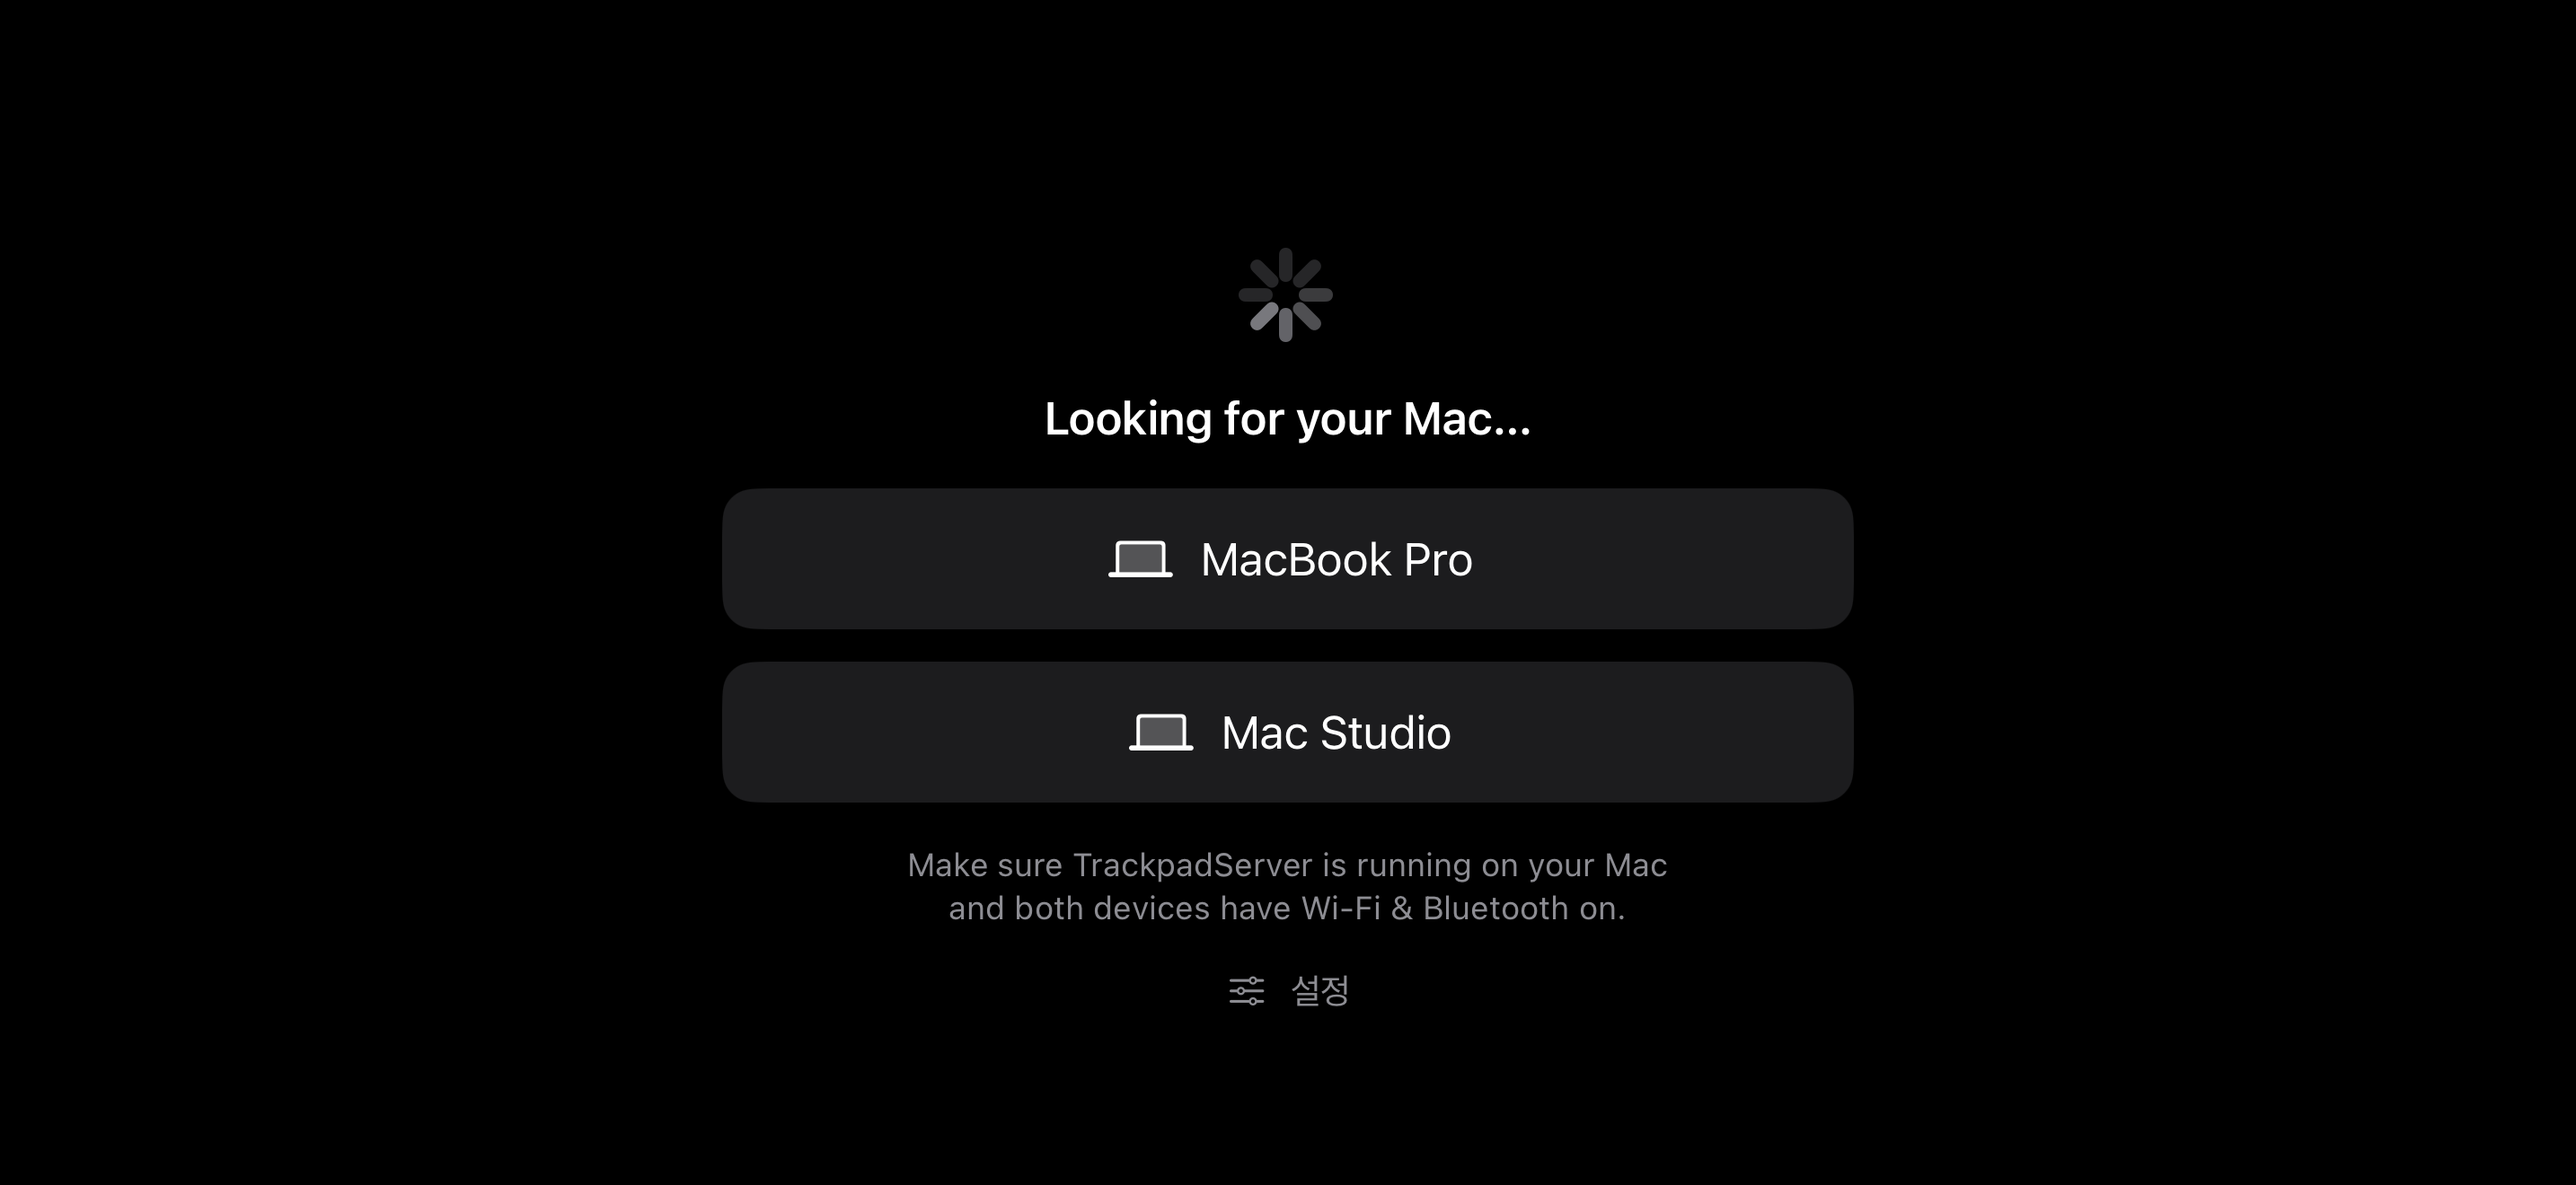
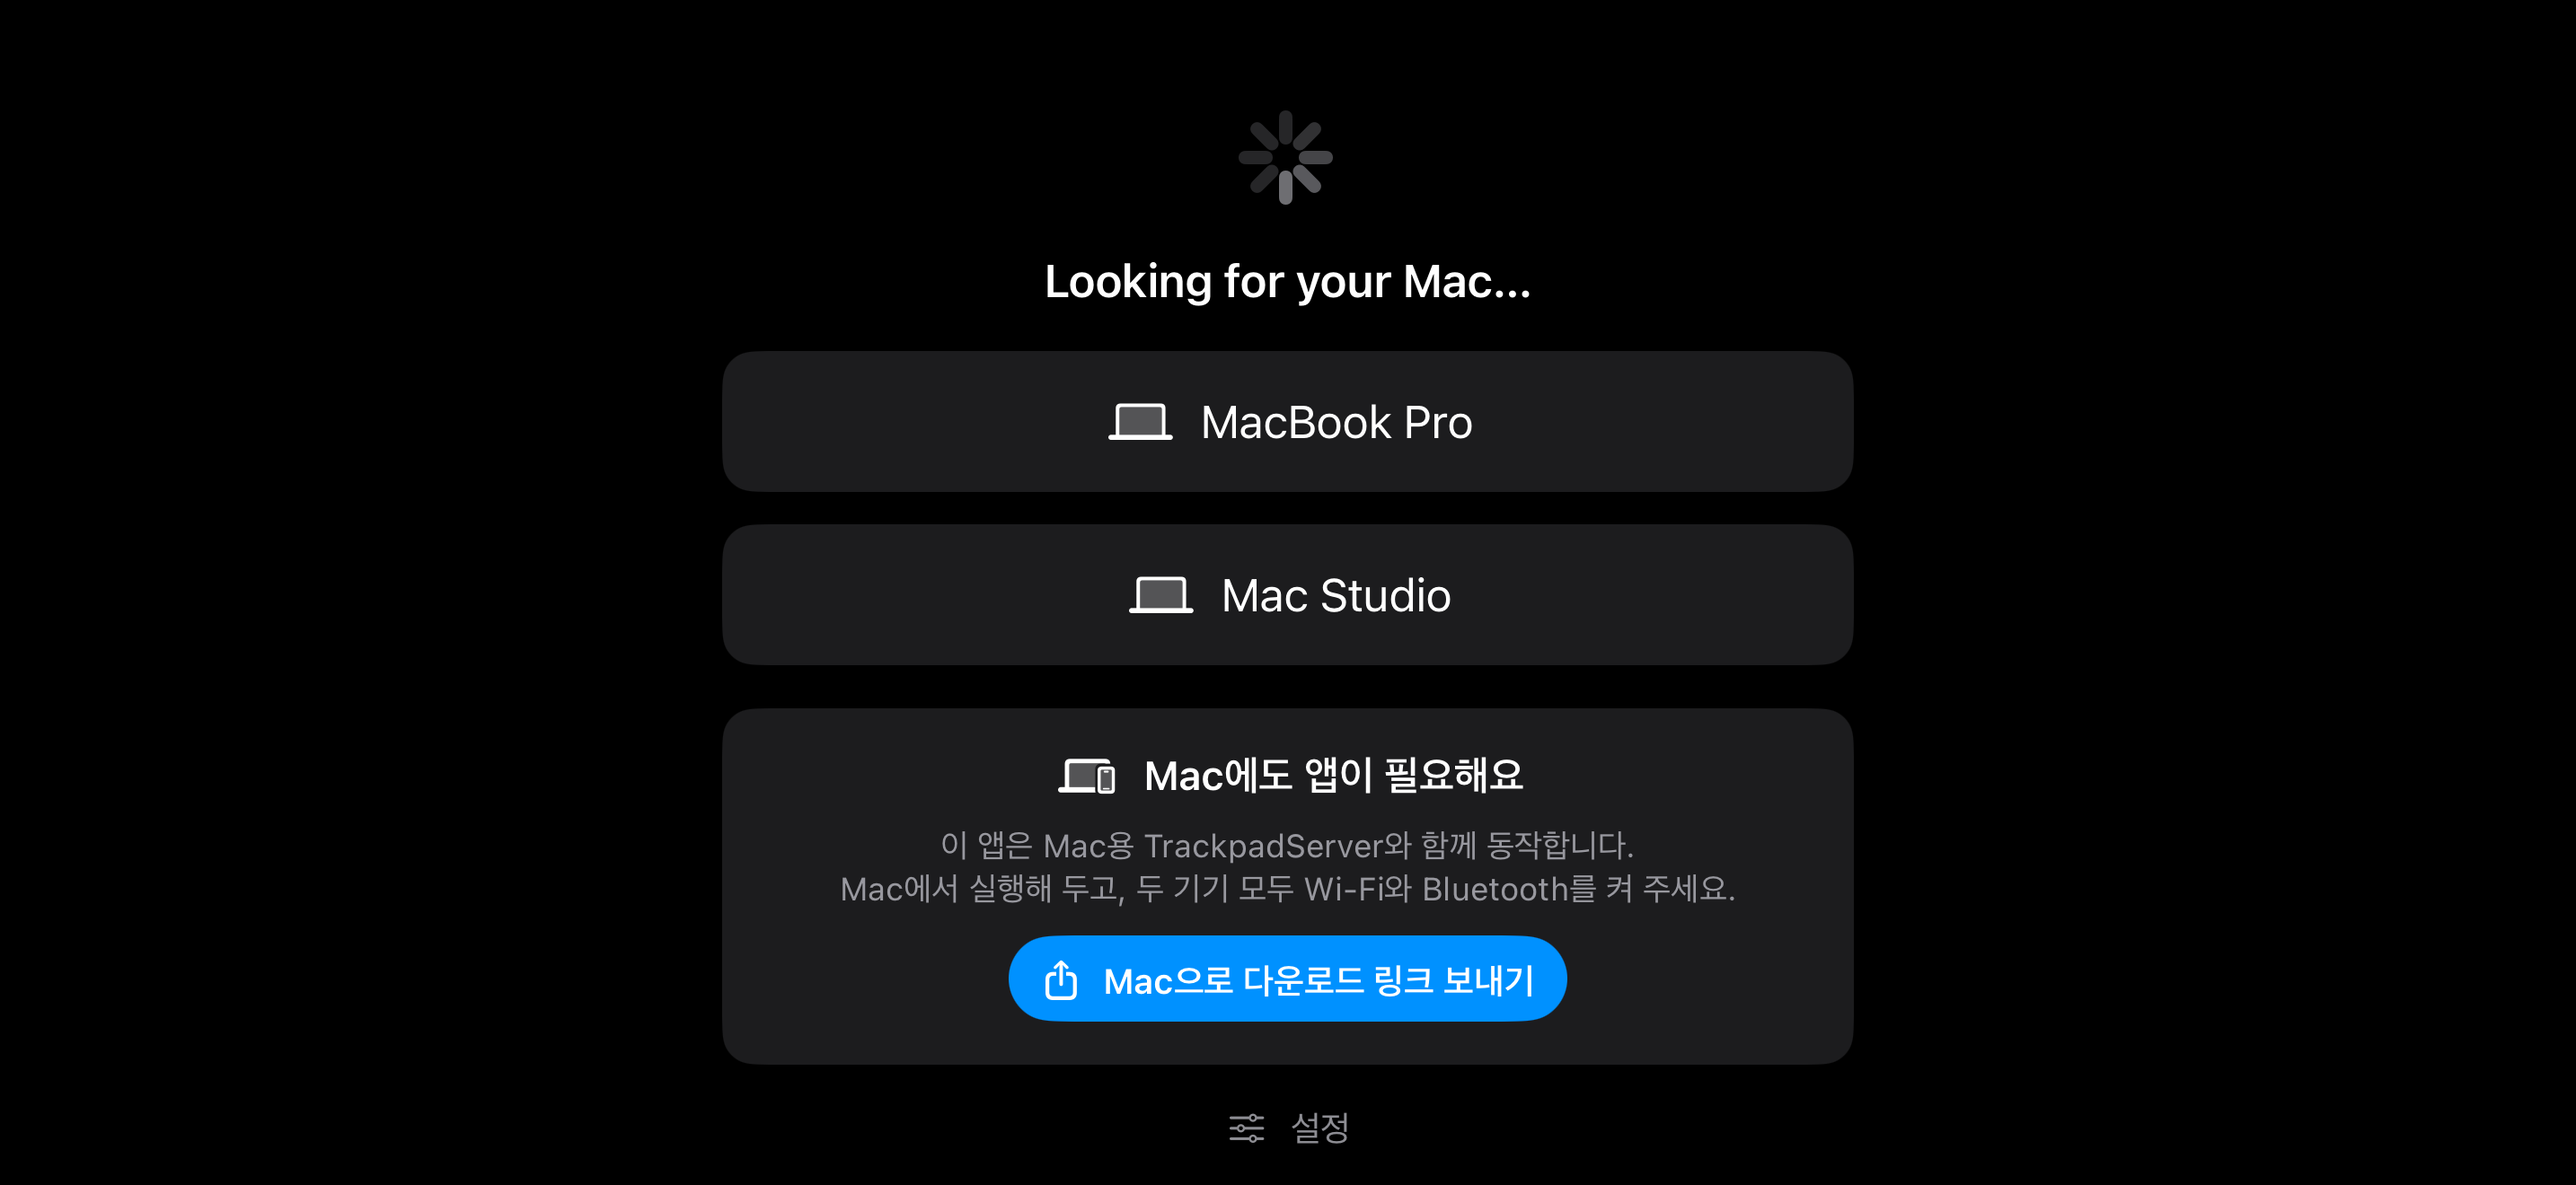
Tell each app's users they need the other half
Neither app does anything alone, and nothing said so. The iPhone app's
search screen now explains that the Mac needs TrackpadServer and shares
the download link (AirDrop opens it on the Mac); Settings has the same.
The Mac menu gains "Get the iPhone App…", a QR code window that also
opens at launch until a phone has ever connected.

Both point at one download page rather than a store, so links can
change without shipping either app. project.yml now matches the
iPhone-only, com.leeo bundle id settings so regenerating keeps them.

Claude-Session: https://claude.ai/code/session_01DQ1rdnPxXoZXEVdx8HZgwC

Changed region(s): [[0.2793, 0.2174, 0.7448, 0.9008], [0.4655, 0.0932, 0.5275, 0.1864], [0.4655, 0.9318, 0.5275, 0.9629]]

diff --git a/macOS/CompanionWindow.swift b/macOS/CompanionWindow.swift
@@ -1,0 +1,96 @@
+//
+//  CompanionWindow.swift
+//  TrackpadServer (macOS)
+//
+//  The server does nothing without the iPhone app, and as a menu bar app it
+//  has no window in which to say so. This is that window: a QR code the
+//  iPhone's camera opens straight into the download page.
+//
+
+import AppKit
+import CoreImage.CIFilterBuiltins
+import SwiftUI
+
+@MainActor
+enum CompanionWindow {
+    private static var window: NSWindow?
+
+    static func show() {
+        if window == nil {
+            let hosting = NSHostingView(rootView: CompanionView())
+            let newWindow = NSWindow(contentRect: NSRect(origin: .zero, size: hosting.fittingSize),
+                                     styleMask: [.titled, .closable],
+                                     backing: .buffered,
+                                     defer: false)
+            newWindow.title = "Get the iPhone App"
+            newWindow.contentView = hosting
+            newWindow.isReleasedWhenClosed = false
+            newWindow.center()
+            window = newWindow
+        }
+        // A menu bar app is never frontmost by itself; without this the window
+        // opens behind whatever the user is doing and looks like nothing happened.
+        NSApp.activate()
+        window?.makeKeyAndOrderFront(nil)
+    }
+}
+
+struct CompanionView: View {
+    private let link = CompanionLinks.downloadPage
+
+    var body: some View {
+        VStack(spacing: 18) {
+            Image(systemName: "laptopcomputer.and.iphone")
+                .font(.system(size: 34))
+                .foregroundStyle(.tint)
+
+            VStack(spacing: 6) {
+                Text("TrackpadRemote is two apps")
+                    .font(.title2.bold())
+                Text("This Mac app moves the cursor. The trackpad itself is the "
+                     + "TrackpadRemote app on your iPhone — install it, then keep "
+                     + "both devices on Wi-Fi with Bluetooth on.")
+                    .multilineTextAlignment(.center)
+                    .foregroundStyle(.secondary)
+                    .fixedSize(horizontal: false, vertical: true)
+            }
+
+            if let qrCode = Self.qrCode(for: link) {
+                Image(nsImage: qrCode)
+                    .interpolation(.none)   // modules must stay hard-edged to scan
+                    .resizable()
+                    .frame(width: 176, height: 176)
+                    .padding(12)
+                    .background(.white, in: RoundedRectangle(cornerRadius: 12))
+            }
+
+            Text("Scan with your iPhone's camera")
+                .font(.callout)
+                .foregroundStyle(.secondary)
+
+            HStack {
+                Button("Copy Link") {
+                    NSPasteboard.general.clearContents()
+                    NSPasteboard.general.setString(link.absoluteString, forType: .string)
+                }
+                Button("Open in Browser") {
+                    NSWorkspace.shared.open(link)
+                }
+            }
+        }
+        .padding(28)
+        .frame(width: 380)
+    }
+
+    /// One pixel per module; the view scales it up without smoothing.
+    private static func qrCode(for url: URL) -> NSImage? {
+        let filter = CIFilter.qrCodeGenerator()
+        filter.message = Data(url.absoluteString.utf8)
+        filter.correctionLevel = "M"
+        guard let output = filter.outputImage,
+              let cgImage = CIContext().createCGImage(output, from: output.extent) else {
+            return nil
+        }
+        return NSImage(cgImage: cgImage, size: output.extent.size)
+    }
+}

diff --git a/iOS/ContentView.swift b/iOS/ContentView.swift
@@ -129,10 +129,9 @@ struct ContentView: View {
                         .padding(.horizontal, 32)
                     }
 
-                    Text("Make sure TrackpadServer is running on your Mac\nand both devices have Wi-Fi & Bluetooth on.")
-                        .font(.caption)
-                        .foregroundStyle(.secondary)
-                        .multilineTextAlignment(.center)
+                    companionCard
+                        .frame(maxWidth: 420)
+                        .padding(.horizontal, 32)
 
                     // Reachable before a Mac is found: the pad's feel is worth
                     // setting up while waiting, not only once connected.
@@ -148,6 +147,35 @@ struct ContentView: View {
                 .padding(.vertical, 24)
             }
         }
+    }
+
+    /// A first-time user watching this spinner has no way to know the other half
+    /// of the app lives on the Mac. Say so, and hand them a way to get the link
+    /// onto that Mac — AirDrop from the share sheet opens it in the Mac's browser.
+    private var companionCard: some View {
+        VStack(spacing: 10) {
+            Label("Mac에도 앱이 필요해요", systemImage: "laptopcomputer.and.iphone")
+                .font(.subheadline.weight(.semibold))
+
+            Text("이 앱은 Mac용 TrackpadServer와 함께 동작합니다.\n"
+                 + "Mac에서 실행해 두고, 두 기기 모두 Wi-Fi와 Bluetooth를 켜 주세요.")
+                .font(.caption)
+                .foregroundStyle(.secondary)
+                .multilineTextAlignment(.center)
+
+            // No `message:` — AirDrop turns attached text into a note on the Mac
+            // instead of opening the link.
+            ShareLink(item: CompanionLinks.downloadPage,
+                      subject: Text("TrackpadServer for Mac")) {
+                Label("Mac으로 다운로드 링크 보내기", systemImage: "square.and.arrow.up")
+                    .font(.footnote.weight(.semibold))
+            }
+            .buttonStyle(.borderedProminent)
+        }
+        .padding()
+        .frame(maxWidth: .infinity)
+        .background(Color(.secondarySystemBackground))
+        .clipShape(RoundedRectangle(cornerRadius: 12))
     }
 
     private func statusView(icon: String, title: String, spinning: Bool) -> some View {

diff --git a/iOS/SettingsView.swift b/iOS/SettingsView.swift
@@ -68,10 +68,22 @@ struct SettingsView: View {
                            high: "짧게")
                     .disabled(!settings.swipeEnabled)
                 } header: {
-                    Text("세 손가락 스와이프")
+                    Text("세·네 손가락 스와이프")
                 } footer: {
                     Text("위: Mission Control · 아래: App Exposé · 좌우: 스페이스 이동. "
                          + "Mac에서 해당 단축키(⌃↑ ⌃↓ ⌃← ⌃→)를 바꾸거나 껐다면 동작하지 않습니다.")
+                }
+
+                Section {
+                    ShareLink(item: CompanionLinks.downloadPage,
+                              subject: Text("TrackpadServer for Mac")) {
+                        Label("Mac 앱 다운로드 링크 보내기", systemImage: "laptopcomputer.and.arrow.down")
+                    }
+                } header: {
+                    Text("Mac 앱")
+                } footer: {
+                    Text("Mac마다 TrackpadServer가 설치되어 있어야 연결됩니다. "
+                         + "AirDrop으로 보내면 Mac의 브라우저에서 바로 열립니다.")
                 }
 
                 Section {

diff --git a/macOS/TrackpadServerApp.swift b/macOS/TrackpadServerApp.swift
@@ -18,6 +18,7 @@ import SwiftUI
 
 @main
 struct TrackpadServerApp: App {
+    @NSApplicationDelegateAdaptor(AppDelegate.self) private var appDelegate
     @StateObject private var server = ServerManager()
 
     /// The icon has to distinguish "no phone yet" from "phone connected but I am
@@ -53,6 +54,7 @@ struct TrackpadServerApp: App {
                 Button("Disconnect") { server.disconnect() }
             case .waiting:
                 Text("Waiting for iPhone…")
+                Button("Get the iPhone App…") { CompanionWindow.show() }
             }
 
             Divider()
@@ -61,6 +63,16 @@ struct TrackpadServerApp: App {
                 .keyboardShortcut("q")
         } label: {
             Image(systemName: menuBarSymbol)
+        }
+    }
+}
+
+final class AppDelegate: NSObject, NSApplicationDelegate {
+    func applicationDidFinishLaunching(_ notification: Notification) {
+        // A lone menu bar icon doesn't tell anyone this is half of an app. Until
+        // an iPhone has connected at least once, open with the window that says so.
+        if !UserDefaults.standard.bool(forKey: ServerManager.hasConnectedPhoneKey) {
+            CompanionWindow.show()
         }
     }
 }

diff --git a/macOS/ServerManager.swift b/macOS/ServerManager.swift
@@ -24,6 +24,10 @@ final class ServerManager: NSObject, ObservableObject {
     @Published var state: State = .waiting
     @Published var hasAccessibilityPermission = false
 
+    /// Set the first time any iPhone connects. Until then the app opens the
+    /// "get the iPhone app" window at launch.
+    static let hasConnectedPhoneKey = "hasConnectedPhone"
+
     var isConnected: Bool {
         if case .connected = state { return true }
         return false
@@ -222,6 +226,7 @@ extension ServerManager: MCSessionDelegate {
                 self.handshakeTimeout = nil
                 serverLog.info("connected to \(peerID.displayName, privacy: .public)")
                 self.state = .connected(peerID.displayName)
+                UserDefaults.standard.set(true, forKey: Self.hasConnectedPhoneKey)
                 self.advertiser.stopAdvertisingPeer()
                 self.sendScreenInfo()
                 // Refresh permission state — user may have granted it by now

diff --git a/Shared/CompanionLinks.swift b/Shared/CompanionLinks.swift
@@ -1,0 +1,18 @@
+//
+//  CompanionLinks.swift
+//  Shared
+//
+//  TrackpadRemote is two apps — the iPhone pad and the Mac server — and
+//  neither does anything on its own. Each one sends people to the other half
+//  through the same page.
+//
+
+import Foundation
+
+enum CompanionLinks {
+    /// Download page for both apps (`docs/index.html`, served by GitHub Pages).
+    /// Deliberately not a store URL: the Mac server can never be on the Mac App
+    /// Store (no sandbox), and the iPhone app's App Store link can change on the
+    /// page without shipping a new build of either app.
+    static let downloadPage = URL(string: "https://m1zz.github.io/TrackpadRemote/")!
+}

diff --git a/Tools/make_screenshots.py b/Tools/make_screenshots.py
@@ -448,7 +448,8 @@ def compose_ios():
 MAC_MENUS = {
     "connected": [("Connected: iPhone", True, None), ("Disconnect", False, None),
                   None, ("Quit", False, "⌘Q")],
-    "waiting": [("Waiting for iPhone…", True, None), None, ("Quit", False, "⌘Q")],
+    "waiting": [("Waiting for iPhone…", True, None), ("Get the iPhone App…", False, None),
+                None, ("Quit", False, "⌘Q")],
 }
 
 
